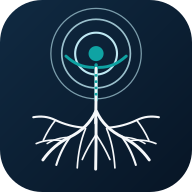
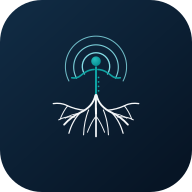
Refine Rootbody brand and mobile scroll behavior

diff --git a/index.html b/index.html
@@ -7,7 +7,7 @@
   <meta name="theme-color" content="#F6F8FA" data-theme-color>
   <meta name="description" content="Rootbody — đo lường, diễn giải, ưu tiên, can thiệp và kiểm chứng sức khỏe theo thời gian.">
   <meta name="apple-mobile-web-app-capable" content="yes">
-  <meta name="apple-mobile-web-app-status-bar-style" content="default" data-status-bar>
+  <meta name="apple-mobile-web-app-status-bar-style" content="black-translucent" data-status-bar>
   <meta name="apple-mobile-web-app-title" content="Rootbody">
   <title>Rootbody</title>
   <!-- Cache-upgrade bridge for clients running the v57 integrity guard: ./styles.css?v=57 -->
@@ -17,51 +17,43 @@
   <script>
     (() => {
       try {
+        const standalone = matchMedia("(display-mode: standalone)").matches || navigator.standalone === true;
+        if (standalone) document.documentElement.classList.add("standalone-pwa");
         const saved = localStorage.getItem("rootbody.theme");
         const theme = saved === "dark" || saved === "light" ? saved : (matchMedia("(prefers-color-scheme: dark)").matches ? "dark" : "light");
         document.documentElement.dataset.theme = theme;
         document.documentElement.style.colorScheme = theme;
         document.querySelector("[data-theme-color]")?.setAttribute("content", theme === "dark" ? "#08121D" : "#F6F8FA");
-        document.querySelector("[data-status-bar]")?.setAttribute("content", theme === "dark" ? "black-translucent" : "default");
       } catch (error) {
         document.documentElement.dataset.theme = "light";
       }
     })();
   </script>
-  <link rel="stylesheet" href="./styles.css?v=58">
-  <link rel="stylesheet" href="./v8.css?v=58">
+  <link rel="stylesheet" href="./styles.css?v=59">
+  <link rel="stylesheet" href="./v8.css?v=59">
 </head>
 <body class="splash-active">
   <div class="opening-splash" data-opening-splash aria-hidden="true">
     <div class="splash-lockup">
       <span class="splash-halo"></span>
-      <svg class="splash-mark" viewBox="0 0 360 420" aria-hidden="true">
+      <svg class="splash-mark" viewBox="0 0 320 360" aria-hidden="true">
         <g class="splash-rings" fill="none" stroke="#BFE9F3" stroke-linecap="round">
-          <circle class="splash-ring splash-ring-one" cx="180" cy="112" r="50" stroke-width="5"/>
-          <circle class="splash-ring splash-ring-two" cx="180" cy="112" r="82" stroke-width="4" opacity=".78"/>
-          <circle class="splash-ring splash-ring-three" cx="180" cy="112" r="108" stroke-width="3" opacity=".58"/>
+          <path class="splash-ring splash-ring-three" d="M75 154A96 96 0 1 1 245 154" stroke-width="3.2" opacity=".82"/>
+          <path class="splash-ring splash-ring-two" d="M99 145A70 70 0 1 1 221 145" stroke-width="3.5" opacity=".92"/>
+          <path class="splash-ring splash-ring-one" d="M124 132A43 43 0 1 1 196 132" stroke-width="4.1"/>
         </g>
-        <circle class="splash-core" cx="180" cy="112" r="18" fill="#0FA3A3"/>
+        <circle class="splash-core" cx="160" cy="92" r="15" fill="#0FA3A3"/>
         <g class="splash-body" fill="none" stroke="#0FA3A3" stroke-linecap="round" stroke-linejoin="round">
-          <path pathLength="1" d="M180 139v84" stroke-width="8"/>
-          <path pathLength="1" d="M173 145c-26 0-45-9-65-27M187 145c26 0 45-9 65-27" stroke-width="7"/>
+          <path pathLength="1" d="M160 111V200" stroke-width="6.4"/>
+          <path pathLength="1" d="M154 118c-18 1-30 9-42 19-8 7-17 9-28 7M166 118c18 1 30 9 42 19 8 7 17 9 28 7" stroke-width="5.1"/>
         </g>
         <g class="splash-roots" fill="none" stroke="currentColor" stroke-linecap="round" stroke-linejoin="round">
-          <path pathLength="1" d="M180 147c0 47 0 91-1 131" stroke-width="7"/>
-          <path pathLength="1" d="M179 250c-12 27-34 48-63 62-25 12-46 30-63 54" stroke-width="7"/>
-          <path pathLength="1" d="M181 250c12 27 34 48 63 62 25 12 46 30 63 54" stroke-width="7"/>
-          <path pathLength="1" d="M180 269c0 42 0 79-1 119" stroke-width="7"/>
-          <path pathLength="1" d="M151 289c-25-2-47-8-68-18-18-9-35-10-53-7M209 289c25-2 47-8 68-18 18-9 35-10 53-7" stroke-width="5"/>
-          <path pathLength="1" d="M119 310c-15 20-26 42-34 68M241 310c15 20 26 42 34 68" stroke-width="5"/>
-          <path pathLength="1" d="M99 320c-23-3-43-1-62 7M261 320c23-3 43-1 62 7" stroke-width="4"/>
-          <path pathLength="1" d="M83 271c-11 14-21 30-29 48M277 271c11 14 21 30 29 48" stroke-width="4"/>
-          <path pathLength="1" d="M155 291c-12 29-18 60-20 94M205 291c12 29 18 60 20 94" stroke-width="4"/>
-          <path pathLength="1" d="M179 307c-12 18-23 37-32 58M181 307c12 18 23 37 32 58" stroke-width="4"/>
-          <path pathLength="1" d="M115 312c-18 0-36 5-52 15M245 312c18 0 36 5 52 15" stroke-width="3.5"/>
+          <path pathLength="1" d="M160 198c0 21-1 40 0 58" stroke-width="6.1"/><path pathLength="1" d="M158 199c-5 24-21 42-47 54-19 9-36 21-51 38" stroke-width="5.8"/><path pathLength="1" d="M162 199c5 24 21 42 47 54 19 9 36 21 51 38" stroke-width="5.8"/><path pathLength="1" d="M160 240v88" stroke-width="5.4"/>
+          <path pathLength="1" d="M124 246c-20-2-38-7-55-15-14-7-28-8-43-6M196 246c20-2 38-7 55-15 14-7 28-8 43-6" stroke-width="4.1"/><path pathLength="1" d="M109 255c-16 17-27 38-34 63M211 255c16 17 27 38 34 63" stroke-width="3.8"/><path pathLength="1" d="M93 267c-18-2-35 1-50 9M227 267c18-2 35 1 50 9" stroke-width="3.2"/><path pathLength="1" d="M71 232c-9 11-17 25-23 41M249 232c9 11 17 25 23 41" stroke-width="3"/><path pathLength="1" d="M137 245c-10 24-15 50-16 78M183 245c10 24 15 50 16 78" stroke-width="3.2"/><path pathLength="1" d="M158 267c-10 13-18 30-25 48M162 267c10 13 18 30 25 48" stroke-width="2.9"/><path pathLength="1" d="M108 256c-16 1-31 6-45 15M212 256c16 1 31 6 45 15" stroke-width="2.6"/>
         </g>
         <g class="splash-signals" fill="#0FA3A3">
-          <circle cx="180" cy="164" r="3.4"/><circle cx="180" cy="179" r="3.4"/>
-          <circle cx="180" cy="194" r="3.4"/><circle cx="180" cy="209" r="3.4"/>
+          <circle cx="168" cy="143" r="2.8"/><circle cx="168" cy="157" r="2.8"/>
+          <circle cx="168" cy="171" r="2.8"/><circle cx="168" cy="185" r="2.8"/>
         </g>
       </svg>
       <div class="splash-wordmark"><span>root</span><strong>body</strong></div>
@@ -178,7 +170,7 @@
           </div>
         </section>
 
-        <section class="rb-section" aria-labelledby="liverTitle">
+        <section class="rb-section rb-liver-section" aria-labelledby="liverTitle">
           <div class="section-line"><h2 id="liverTitle">Bối cảnh gan</h2><button class="text-button" type="button" data-open-dialog="labsDialog">Nhập kết quả</button></div>
           <div class="rb-card rb-liver-card" data-liver-context></div>
         </section>
@@ -189,7 +181,6 @@
           <p data-analysis-copy>Hoàn thiện hồ sơ để Rootbody bắt đầu phân loại tín hiệu.</p>
           <div><strong data-analysis-risk>Chưa đủ dữ liệu</strong><small data-analysis-grade>Chưa xếp hạng</small></div>
           <button class="rb-inline-button" type="button" data-open-reason>Xem căn cứ</button>
-          <img src="./brand/rootbody-mark.svg" alt="" aria-hidden="true">
         </article>
 
         <section class="rb-section" aria-labelledby="contributorsTitle">
@@ -709,11 +700,12 @@
   </dialog>
 
   <div class="toast" role="status" aria-live="polite" data-toast></div>
-  <script src="./food-data.js?v=58" defer></script>
-  <script src="./coach-data.js?v=58" defer></script>
-  <script src="./health-engine.js?v=58" defer></script>
-  <script src="./app.js?v=58" defer></script>
-  <script src="./coach.js?v=58" defer></script>
-  <script src="./intelligence.js?v=58" defer></script>
+  <script src="./food-data.js?v=59" defer></script>
+  <script src="./coach-data.js?v=59" defer></script>
+  <script src="./health-engine.js?v=59" defer></script>
+  <script src="./app.js?v=59" defer></script>
+  <script src="./coach.js?v=59" defer></script>
+  <script src="./intelligence.js?v=59" defer></script>
 </body>
 </html>
+

diff --git a/v8.css b/v8.css
@@ -310,6 +310,82 @@ html[data-theme="dark"] .rb-insight-card img { filter: saturate(1.08) brightness
 }
 @keyframes rb-splash-screen-reduced { 0%,70% { opacity: 1; } 100% { opacity: 0; visibility: hidden; } }
 
+/* V8.3 — safe-area fade and compact analysis */
+:root { --rb-safe-top: env(safe-area-inset-top, 0px); }
+html.standalone-pwa { --rb-safe-top: max(env(safe-area-inset-top, 0px), 28px); }
+html { scroll-padding-top: calc(72px + var(--rb-safe-top)); }
+.app-shell { max-width: 100%; overflow-x: clip; }
+main, .view, .view.is-active { overflow: visible; }
+
+html.standalone-pwa body::before {
+  content: "";
+  pointer-events: none;
+  position: fixed;
+  z-index: 22;
+  top: 0;
+  right: 0;
+  left: 0;
+  height: calc(var(--rb-safe-top) + 18px);
+  background: linear-gradient(to bottom,
+    #08121D 0,
+    rgba(8,18,29,.98) calc(var(--rb-safe-top) - 1px),
+    rgba(8,18,29,0) 100%);
+}
+
+.screen-heading.rb-screen-heading {
+  position: sticky;
+  z-index: 20;
+  top: 0;
+  min-height: calc(66px + var(--rb-safe-top));
+  padding-top: calc(var(--rb-safe-top) + 13px);
+  border-bottom: 0;
+  background: rgba(246,248,250,.9);
+  -webkit-backdrop-filter: saturate(140%) blur(18px);
+  backdrop-filter: saturate(140%) blur(18px);
+  box-shadow: 0 7px 24px rgba(13,27,42,.028);
+}
+.screen-heading.rb-screen-heading::after {
+  content: "";
+  pointer-events: none;
+  position: absolute;
+  z-index: -1;
+  right: 0;
+  bottom: -18px;
+  left: 0;
+  height: 18px;
+  background: linear-gradient(to bottom,rgba(246,248,250,.7),rgba(246,248,250,0));
+}
+html[data-theme="dark"] .screen-heading.rb-screen-heading {
+  border-bottom: 0;
+  background: rgba(8,18,29,.92);
+  box-shadow: 0 7px 24px rgba(0,0,0,.08);
+}
+html[data-theme="dark"] .screen-heading.rb-screen-heading::after {
+  background: linear-gradient(to bottom,rgba(8,18,29,.7),rgba(8,18,29,0));
+}
+
+.rb-liver-section { margin-top: 34px; }
+.rb-liver-section .section-line { align-items: center; margin-bottom: 12px; }
+.rb-liver-section .section-line h2 { margin: 0; }
+.rb-liver-section .text-button { min-height: 42px; padding: 0 15px; border-radius: 14px; }
+
+.rb-interpretation-card {
+  min-height: 0;
+  margin-top: 20px;
+  padding: 20px;
+  background: linear-gradient(145deg,#EAF8F9,#F7FCFC);
+}
+.rb-interpretation-card img { display: none !important; }
+.rb-interpretation-card h2 { max-width: 100%; margin: 8px 0 7px; font-size: 20px; }
+.rb-interpretation-card p { max-width: 560px; }
+.rb-interpretation-card > div { margin-top: 11px; }
+.rb-interpretation-card .rb-inline-button { justify-self: start; }
+html[data-theme="dark"] .rb-interpretation-card { background: linear-gradient(145deg,#10323A,#102731); }
+
+@media (max-width: 359px) {
+  .rb-interpretation-card { padding-right: 18px; padding-left: 18px; }
+}
+
 /* V8.2 — single information architecture, Rootflow-style document scroll */
 :root {
   --radius-xl: 28px;
@@ -488,3 +564,42 @@ html[data-theme="dark"] .exercise-row img { mix-blend-mode: normal; filter: satu
   .rb-exercise-card { grid-template-columns: 78px minmax(0,1fr) 26px; gap: 10px; }
   .rb-exercise-image { width: 78px; height: 78px; }
 }
+
+/* Sticky app bar must come after the V8.2 overflow and theme overrides. */
+html { overflow-x: clip; overflow-y: auto; }
+body { overflow: visible; }
+main, .view, .view.is-active {
+  overflow-x: visible;
+  overflow-y: visible;
+}
+.screen-heading.rb-screen-heading {
+  z-index: 20;
+  top: 0;
+  min-height: calc(66px + var(--rb-safe-top));
+  padding-top: calc(var(--rb-safe-top) + 13px);
+  border-bottom: 0;
+  background: rgba(246,248,250,.9);
+  -webkit-backdrop-filter: saturate(140%) blur(18px);
+  backdrop-filter: saturate(140%) blur(18px);
+  box-shadow: 0 7px 24px rgba(13,27,42,.028);
+}
+.screen-heading.rb-screen-heading::after {
+  content: "";
+  pointer-events: none;
+  position: absolute;
+  z-index: -1;
+  right: 0;
+  bottom: -18px;
+  left: 0;
+  height: 18px;
+  background: linear-gradient(to bottom,rgba(246,248,250,.7),rgba(246,248,250,0));
+}
+html[data-theme="dark"] .screen-heading.rb-screen-heading {
+  border-bottom: 0;
+  background: rgba(8,18,29,.92);
+  box-shadow: 0 7px 24px rgba(0,0,0,.08);
+}
+html[data-theme="dark"] .screen-heading.rb-screen-heading::after {
+  background: linear-gradient(to bottom,rgba(8,18,29,.7),rgba(8,18,29,0));
+}
+

diff --git a/app.js b/app.js
@@ -335,7 +335,7 @@
     const meta = $("[data-theme-color]");
     if (meta) meta.setAttribute("content", next === "dark" ? "#08121D" : "#F6F8FA");
     const statusBar = $("[data-status-bar]");
-    if (statusBar) statusBar.setAttribute("content", next === "dark" ? "black-translucent" : "default");
+    if (statusBar) statusBar.setAttribute("content", "black-translucent");
     $$('[data-theme-option]').forEach((button) => {
       const active = button.dataset.themeOption === next;
       button.classList.toggle("is-active", active);
@@ -1275,6 +1275,7 @@
   navigate(location.hash.slice(1) || "today");
 
   if ("serviceWorker" in navigator) {
-    window.addEventListener("load", () => navigator.serviceWorker.register("./sw.js?v=58").catch((error) => console.warn("Service worker chưa sẵn sàng.", error)));
+    window.addEventListener("load", () => navigator.serviceWorker.register("./sw.js?v=59").catch((error) => console.warn("Service worker chưa sẵn sàng.", error)));
   }
 })();
+

diff --git a/sw.js b/sw.js
@@ -1,15 +1,15 @@
-const CACHE_NAME = "rootbody-v8-architecture-v58";
+const CACHE_NAME = "rootbody-v8-architecture-v59";
 const APP_SHELL = [
   "./",
   "./index.html",
-  "./styles.css?v=58",
-  "./v8.css?v=58",
-  "./food-data.js?v=58",
-  "./coach-data.js?v=58",
-  "./health-engine.js?v=58",
-  "./app.js?v=58",
-  "./coach.js?v=58",
-  "./intelligence.js?v=58",
+  "./styles.css?v=59",
+  "./v8.css?v=59",
+  "./food-data.js?v=59",
+  "./coach-data.js?v=59",
+  "./health-engine.js?v=59",
+  "./app.js?v=59",
+  "./coach.js?v=59",
+  "./intelligence.js?v=59",
   "./manifest.webmanifest",
   "./brand/rootbody-symbol.svg",
   "./brand/rootbody-logo.svg",
@@ -136,3 +136,4 @@ self.addEventListener("fetch", (event) => {
     }).catch(() => caches.match(event.request))
   );
 });
+

diff --git a/README.md b/README.md
@@ -140,10 +140,13 @@ Mở `http://localhost:8765`.
 
 ## Deploy
 
-Workflow `.github/workflows/pages.yml` deploy nhánh `main` lên GitHub Pages. Service Worker dùng cache riêng `rootbody-v8-architecture-v58`, ưu tiên mạng cho tài liệu điều hướng và chỉ lưu HTML đã vượt qua kiểm tra cấu trúc tối thiểu.
+Workflow `.github/workflows/pages.yml` deploy nhánh `main` lên GitHub Pages. Service Worker dùng cache riêng `rootbody-v8-architecture-v59`, ưu tiên mạng cho tài liệu điều hướng và chỉ lưu HTML đã vượt qua kiểm tra cấu trúc tối thiểu.
+
+V59 dựng lại logo theo hệ `signal → body → root`, thu gọn app icon, rút gọn card Diễn giải và dùng sticky app bar có blur/gradient fade. Ở chế độ standalone, safe area dùng `black-translucent` với lớp chuyển sắc để tránh đường cắt sáng/tối cứng khi đổi theme.
 
 ## Brand
 
 Màu: Deep Navy `#0D1B2A`, Signal Teal `#0FA3A3`, Soft Cyan `#BFE9F3`, Off White `#F6F8FA`, Muted Violet `#6F6AAE`; dark theme dùng navy surfaces và tăng độ sáng Teal/Cyan. UI dùng Open Sans self-hosted. App icon chỉ giữ signal, body và ba root-stroke lớn để đọc rõ ở kích thước Home Screen. Startup motion theo nhịp Rootflow và hỗ trợ `prefers-reduced-motion`.
 
 © Copyright from derekdaydoi
+
